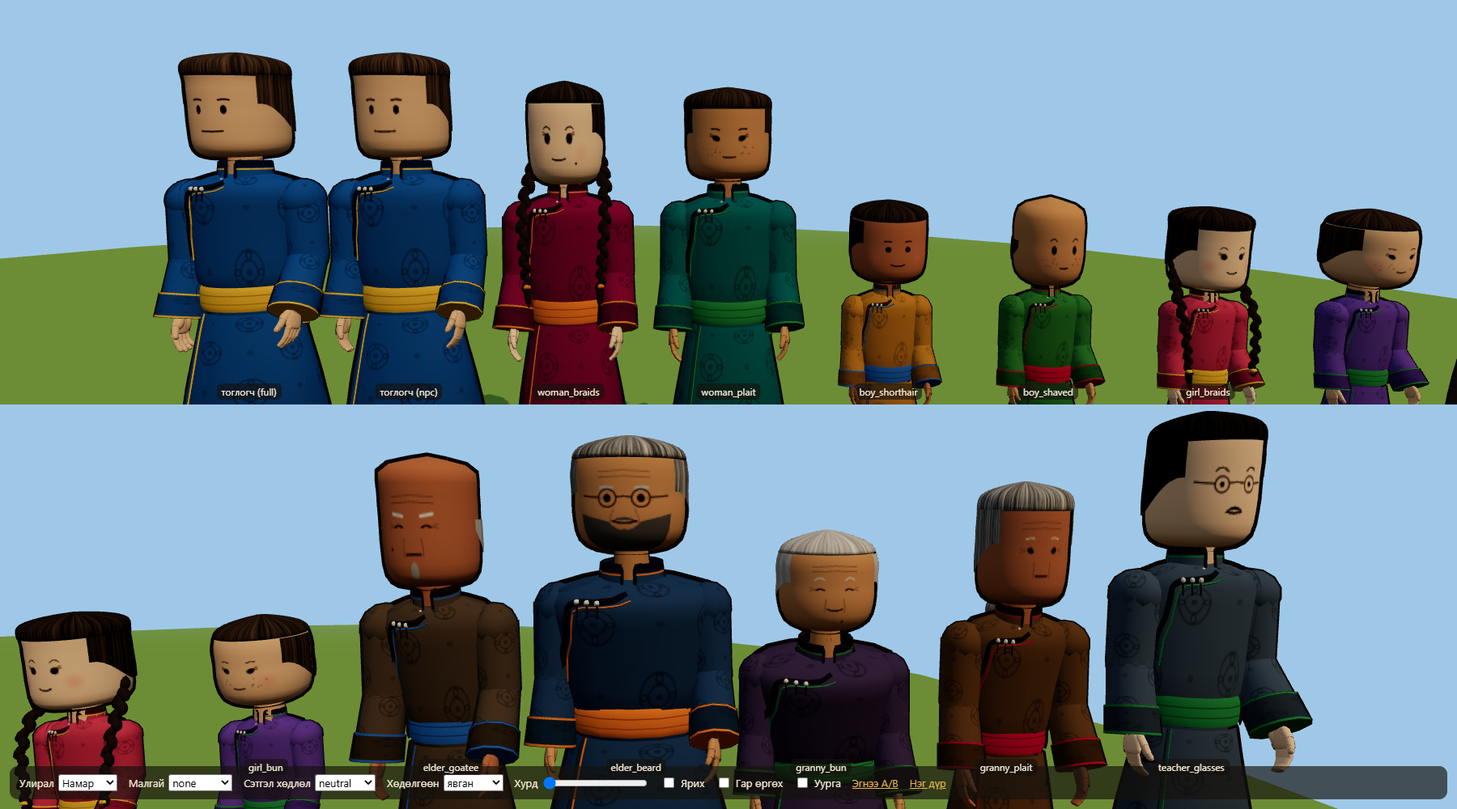
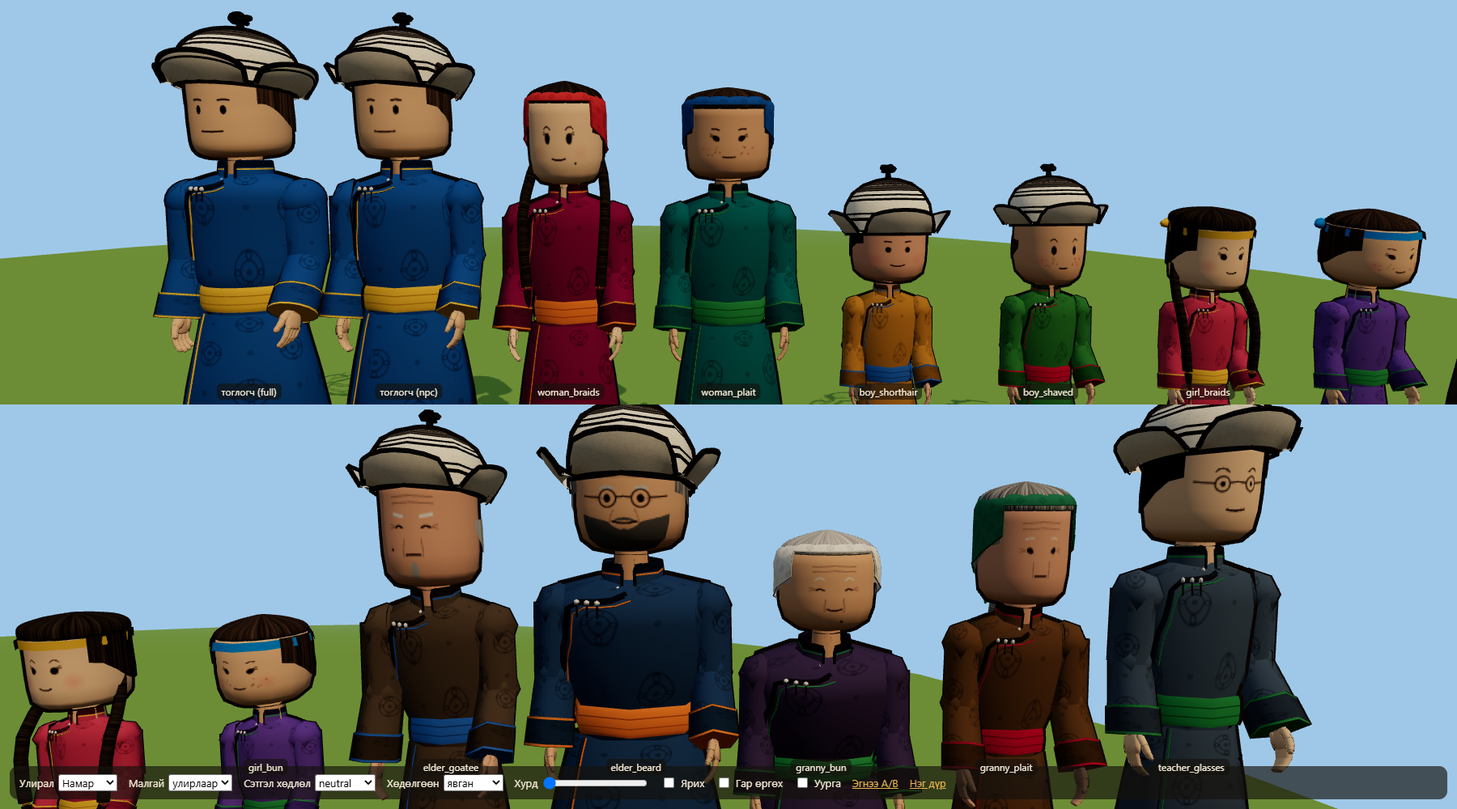
fix(character): V4.5 R4 засвар — арьс, өвлийн олон янз байдал, нимгэн алчуур, багш, npc ≤ 8 000 гурвалжин
- Арьсны 4 палитр тоглогчийн арьсны ойролцоо, ханалт бага (цайвар ↔ наранд борлосон)
- Өвөл: хантааз/үслэг зах/малгайн оройн өнгө preset бүрт өөр; vest.worn — зарим нь хантаазгүй
- Алчуур: толгойн төвөөс бүтээсэн (хүрээ зөв), нимгэн, наалдсан, дух, хацар ил, араар зангидсан
- teacher_glasses: хаалттай тайван ам, ердийн толгой
- npc: lod 0.3, хоолой/loft/гэзэг/тоорцгийн хуваалт бага → нэг дүр 5 480–7 810 гурвалжин (тест)
- tools/shots/r4/ шинэчлэв

diff --git a/game/src/render/character/parts/hats.ts b/game/src/render/character/parts/hats.ts
@@ -37,12 +37,12 @@ function toortsog(spec: CharacterSpec, kit: Kit, hy: number): THREE.Group {
   noOut(kit.lathe([[domeR(0.275) + 0.005, 0.275], [domeR(0.312) + 0.005, 0.312], [domeR(0.338) + 0.005, 0.338], [0, 0.355]], 1, cap(L.ink), 0, hy, 0, hat, { rows: 12 }));   // алхан хээтэй хар орой
   // Сампин: иш + мушгисан зангилаа
   kit.cyl(0.016, 0.024, 0.05, ink, 0, hy + 0.372, 0, hat);
-  const knot = new THREE.Mesh(new THREE.TorusKnotGeometry(0.03, 0.014, 64, 8, 2, 3), ink);
+  const knot = new THREE.Mesh(new THREE.TorusKnotGeometry(0.03, 0.014, kit.q(64, 16), kit.q(8, 4), 2, 3), ink);
   knot.position.y = hy + 0.42; knot.rotation.x = Math.PI / 2; knot.castShadow = true;
   hat.add(knot);
   // Далбаа: орой нь бараг тэгш, үзүүр рүүгээ огцом намсдаг бөөрөнхий дэлбээ; аяга шиг гадагш дэлгэрнэ
   const flap = (center: number, half: number, H: number, flare: number, round: number): void => {
-    const nu = 24, nv = 8, pos: number[] = [], uv: number[] = [], idx: number[] = [], edge: THREE.Vector3[] = [], inner: THREE.Vector3[] = [];
+    const nu = kit.q(24, 8), nv = kit.q(8, 3), pos: number[] = [], uv: number[] = [], idx: number[] = [], edge: THREE.Vector3[] = [], inner: THREE.Vector3[] = [];
     for (let a = 0; a <= nu; a++) {
       const s01 = (a / nu) * 2 - 1, phi = center + s01 * half;
       const f = Math.pow(Math.cos((s01 * Math.PI) / 2), round);          // 0 (үзүүр) … 1 (дунд)
@@ -68,8 +68,8 @@ function toortsog(spec: CharacterSpec, kit: Kit, hy: number): THREE.Group {
     const m = noOut(new THREE.Mesh(geo, feltM2));
     m.position.y = hy; m.castShadow = true;
     hat.add(m);
-    for (const [pts, rad] of [[edge, 0.014], [inner, 0.006]] as const) {      // хар хөвөө + дотор талын нарийн шугам
-      const tube = noOut(new THREE.Mesh(new THREE.TubeGeometry(new THREE.CatmullRomCurve3(pts), kit.q(48, 10), rad, kit.q(6, 4)), ink));
+    for (const [pts, rad] of (kit.detail === 'npc' ? [[edge, 0.014]] : [[edge, 0.014], [inner, 0.006]]) as Array<[THREE.Vector3[], number]>) {      // хар хөвөө + дотор талын нарийн шугам (npc: зөвхөн хөвөө)
+      const tube = noOut(new THREE.Mesh(new THREE.TubeGeometry(new THREE.CatmullRomCurve3(pts), kit.tq(48, 10), rad, kit.tq(6, 3)), ink));
       tube.position.y = hy;
       hat.add(tube);
     }
@@ -115,8 +115,8 @@ function fox(spec: CharacterSpec, kit: Kit, hy: number): THREE.Group {
 }
 
 /**
- * Алчуур (R4, эмэгтэйчүүд): толгойн орой, ар, хажууг бүрхсэн бүрхүүл — нүүр ил; эрүүн доогуур (chin) эсвэл араар (back)
- * зангидсан. thick — өвлийн зузаан алчуур (эсгий). Толгойн хэлбэрийг (headShape) дагана.
+ * Алчуур (R4, эмэгтэйчүүд): толгойд наалдсан нимгэн даавуу — орой, ар, хажуу, духны дээд хэсэг; дух, нүүр ил; араар (back)
+ * эсвэл эрүүн доогуур (chin) зангидсан. thick — өвлийн зузаан алчуур (эсгий). Геометр толгойн төвөөс (бэхэн хүрээ зөв томорно).
  */
 function scarfHat(name: 'scarf' | 'shawl', thick: boolean): HatBuilder {
   return (spec, kit, hy) => {
@@ -124,14 +124,21 @@ function scarfHat(name: 'scarf' | 'shawl', thick: boolean): HatBuilder {
     const R = profileRadius(headProfile(spec.headShape));
     const hat = new THREE.Group();
     hat.name = 'hat:' + name;
-    const cloth = thick ? felt(L.color, true) : silk(L.color, true), trim = smooth(darken(L.color, 0.62));
-    const off = thick ? 0.05 : 0.032, FRONT = 2.45, TOP = 0.262;
-    const low = (d: number): number => (L.knot === 'chin' ? -0.31 : -0.36 + 0.16 * (Math.abs(d) / FRONT) ** 2);
-    const at = (d: number, y: number): THREE.Vector3 => {
-      const r = (y > TOP - 0.004 ? 0 : Math.max(R(y), y < 0 ? 0.185 : 0)) + off * (y > TOP - 0.004 ? 0.4 : 1), phi = Math.PI + d;
-      return new THREE.Vector3(r * Math.sin(phi) * hw, hy + y * hh, r * Math.cos(phi) * hw);
+    const cloth = thick ? felt(L.color, true) : silk(L.color, true), trim = smooth(darken(L.color, thick ? 0.7 : 0.82));
+    // толгойд наалдсан: үсний бүрхүүлээс (≈1.6–2.6 см) бага зэрэг гадна; ар тал руугаа арай зузаан
+    const FRONT = 2.3, TOP = 0.262, BROW = 0.17;
+    const off = (d: number): number => (thick ? 0.045 : 0.03) + 0.008 * Math.max(0, Math.cos(d));
+    // доод ирмэг: ар талд шил хүртэл, урд руугаа чамархай хүртэл өгсөнө (chin — эрүүн доогуур)
+    const low = (d: number): number => {
+      const t = (Math.abs(d) / FRONT) ** 1.5;
+      return L.knot === 'chin' ? -0.3 : -0.2 + t * 0.24;   // ар: шил; урд: чамархай (хацар ил)
     };
-    const NU = kit.q(40, 12), NV = kit.q(16, 6), pos: number[] = [], uv: number[] = [], idx: number[] = [];
+    const at = (d: number, y: number): THREE.Vector3 => {   // толгойн төвөөс (хүрээ толгойн төвөөр томорно)
+      const r = Math.max(R(y), y < 0 ? 0.2 : 0) + off(d), phi = Math.PI + d;
+      return new THREE.Vector3(r * Math.sin(phi) * hw, y * hh, r * Math.cos(phi) * hw);
+    };
+    const NU = kit.q(40, 12), NV = kit.q(14, 6), pos: number[] = [], uv: number[] = [], idx: number[] = [];
+    // ар/хажуугийн бүрхүүл (d ∈ [−FRONT, FRONT]) + духны тууз (урд талын нарийн зурвас — дух ил)
     for (let a = 0; a <= NU; a++) {
       const d = -FRONT + (a / NU) * FRONT * 2, lo = low(d);
       for (let b = 0; b <= NV; b++) {
@@ -143,27 +150,41 @@ function scarfHat(name: 'scarf' | 'shawl', thick: boolean): HatBuilder {
       const p0 = a * (NV + 1) + b, p1 = p0 + NV + 1;
       idx.push(p0, p1, p0 + 1, p1, p1 + 1, p0 + 1);
     }
+    const n0 = pos.length / 3;
+    for (let a = 0; a <= NU; a++) {
+      const d = FRONT + (a / NU) * 2 * (Math.PI - FRONT);   // урд талын шаантаг (FRONT … 2π − FRONT)
+      for (let b = 0; b <= NV; b++) {
+        const t = b / NV, p = at(d, BROW + (TOP - BROW) * t);
+        pos.push(p.x, p.y, p.z); uv.push((a / NU) * 1, t * 0.6);
+      }
+    }
+    for (let a = 0; a < NU; a++) for (let b = 0; b < NV; b++) {
+      const p0 = n0 + a * (NV + 1) + b, p1 = p0 + NV + 1;
+      idx.push(p0, p1, p0 + 1, p1, p1 + 1, p0 + 1);
+    }
     const geo = new THREE.BufferGeometry();
     geo.setAttribute('position', new THREE.Float32BufferAttribute(pos, 3));
     geo.setAttribute('uv', new THREE.Float32BufferAttribute(uv, 2));
     geo.setIndex(idx);
     geo.computeVertexNormals();
     const shell = new THREE.Mesh(geo, cloth);
-    shell.castShadow = true;
+    shell.position.y = hy; shell.castShadow = true;
+    if (!thick) noOut(shell);   // нимгэн даавуу: бэхэн хүрээ нь зузаан дуулга шиг харагдуулна
     hat.add(shell);
-    // Хөвөө: нүүрний хоёр ирмэг, доод ирмэг
-    const rad = thick ? 0.016 : 0.009;
-    for (const sd of [-1, 1]) {
-      const d = sd * FRONT, lo = low(d);
-      kit.tube(Array.from({ length: 9 }, (_, k) => at(d, lo + (TOP - 0.02 - lo) * Math.sin(((k / 8) * Math.PI) / 2))), rad, trim, hat);
-    }
-    kit.tube(Array.from({ length: 21 }, (_, k) => { const d = -FRONT + (k / 20) * FRONT * 2; return at(d, low(d)); }), rad, trim, hat);
+    // Хөвөө: духны ирмэг, хажуугийн ирмэг, доод ирмэг (нарийн)
+    const edge = new THREE.Group();
+    edge.position.y = hy;
+    hat.add(edge);
+    const rad = thick ? 0.012 : 0.006;
+    kit.tube(Array.from({ length: 13 }, (_, k) => at(Math.PI + (k / 12 - 0.5) * 2 * (Math.PI - FRONT), BROW)), rad, trim, edge);
+    for (const sd of [-1, 1]) kit.tube(Array.from({ length: 7 }, (_, k) => at(sd * FRONT, low(sd * FRONT) + (BROW - low(sd * FRONT)) * (k / 6))), rad, trim, edge);
+    kit.tube(Array.from({ length: 21 }, (_, k) => { const d = -FRONT + (k / 20) * FRONT * 2; return at(d, low(d)); }), rad, trim, edge);
     // Зангилаа ба хоёр үзүүр
-    const knot = L.knot === 'chin' ? new THREE.Vector3(0, hy - 0.33 * hh, 0.15 * hw) : new THREE.Vector3(0, hy - 0.2 * hh, -(0.25 + off) * hw);
-    noOut(kit.sball(thick ? 0.05 : 0.04, cloth, knot.x, knot.y, knot.z, hat)).scale.set(1.3, 0.8, 0.9);
+    const knot = L.knot === 'chin' ? new THREE.Vector3(0, -0.33 * hh, 0.15 * hw) : at(0, -0.17);
+    noOut(kit.sball(thick ? 0.045 : 0.032, cloth, knot.x, knot.y, knot.z, edge)).scale.set(1.3, 0.8, 0.7);
     for (const sx of [-1, 1]) {
-      const tail = noOut(kit.lathe([[0.004, -0.17], [0.03, -0.12], [0.028, 0]], 0.35, cloth, knot.x + sx * 0.035, knot.y - 0.01, knot.z + (L.knot === 'chin' ? 0.01 : -0.01), hat, { rows: 6 }));
-      tail.rotation.z = sx * 0.35;
+      const tail = noOut(kit.lathe([[0.004, -0.15], [0.026, -0.1], [0.022, 0]], 0.3, cloth, knot.x + sx * 0.03, knot.y - 0.01, knot.z + (L.knot === 'chin' ? 0.01 : -0.012), edge, { rows: 6 }));
+      tail.rotation.z = sx * 0.3;
     }
     return hat;
   };

diff --git a/game/src/render/character/geom.ts b/game/src/render/character/geom.ts
@@ -46,6 +46,8 @@ export interface Kit {
   readonly detail: Detail;
   /** хуваалтын тоо нарийвчлалаар: max(min, round(n × lod)) */
   q(n: number, min: number): number;
+  /** нарийн хоолой, хүрээний хуваалт: npc-д илүү цөөн (холоос үл ялгагдана) */
+  tq(n: number, min: number): number;
   /** Эргэлтийн бие: ctrl = [[радиус, y], ...] доороос дээш. depthK = зузаан/өргөн (зууван огтлол) */
   lathe(ctrl: readonly Pt[], depthK: number, material: THREE.Material, x: number, y: number, z: number, parent: THREE.Object3D, opt?: LatheOpt): THREE.Mesh;
   cyl(rTop: number, rBot: number, h: number, material: THREE.Material, x: number, y: number, z: number, parent: THREE.Object3D): THREE.Mesh;
@@ -70,6 +72,7 @@ export function makeKit(lod: number, detail: Detail = 'full'): Kit {
     lod,
     detail,
     q,
+    tq: (n, min) => (detail === 'npc' ? Math.max(min, Math.round(n * lod * 0.45)) : q(n, min)),
     lathe(ctrl, depthK, material, x, y, z, parent, opt = {}) {
       const pts = ctrl.length < 3 ? ctrl.map(([r, yy]) => new THREE.Vector2(r, yy)) : profile(ctrl, q(opt.rows ?? 10, 4));
       if (opt.capBottom) pts.unshift(new THREE.Vector2(0, pts[0]!.y));
@@ -102,16 +105,16 @@ export function makeKit(lod: number, detail: Detail = 'full'): Kit {
       place(new THREE.Mesh(new THREE.SphereGeometry(r, r < 0.035 ? q(8, 4) : q(16, 6), r < 0.035 ? q(6, 3) : q(12, 4)), material), x, y, z, parent),
     box: (w, h, d, color, x, y, z, parent) => place(new THREE.Mesh(new THREE.BoxGeometry(w, h, d), flat(color)), x, y, z, parent),
     tube(pts, rad, material, parent, tension = 0.5) {
-      const m = noOut(new THREE.Mesh(new THREE.TubeGeometry(new THREE.CatmullRomCurve3(pts, false, 'catmullrom', tension), q(64, 12), rad, q(6, 4)), material));
+      const m = noOut(new THREE.Mesh(new THREE.TubeGeometry(new THREE.CatmullRomCurve3(pts, false, 'catmullrom', tension), detail === 'npc' ? Math.max(6, Math.round(64 * lod * 0.45)) : q(64, 12), rad, detail === 'npc' ? 3 : q(6, 4)), material));
       parent.add(m);
       return m;
     },
     loft(st0, material, parent, shape = [2, 2], segs0 = 20) {
-      const segs = q(segs0, 8);
+      const segs = detail === 'npc' ? 6 : q(segs0, 8);
       // огтлолуудын хооронд муруйгаар нягтруулна — хошуу, өсгий талтай биш, жигд муруй болно
       const c1 = new THREE.CatmullRomCurve3(st0.map(([z, y, rx]) => new THREE.Vector3(z, y, rx)), false, 'catmullrom', 0.5);
       const c2 = new THREE.CatmullRomCurve3(st0.map(([, , , ry]) => new THREE.Vector3(ry, 0, 0)), false, 'catmullrom', 0.5);
-      const n = (st0.length - 1) * 4;
+      const n = (st0.length - 1) * (detail === 'npc' ? 1 : 4);   // npc: нягтруулалтгүй
       const st: Section[] = Array.from({ length: n + 1 }, (_, k) => {
         const a1 = c1.getPoint(k / n), a2 = c2.getPoint(k / n);
         return [a1.x, a1.y, Math.max(0.002, a1.z), Math.max(0.002, a2.x)];
@@ -150,7 +153,7 @@ export function makeKit(lod: number, detail: Detail = 'full'): Kit {
       if (detail === 'npc') {   // хоолой: зузаан нь бөмбөлгүүдийн дундаж, гадаргуу нь үсний текстур
         const closed = points.length > 2 && points[0]!.distanceTo(points[points.length - 1]!) < r;
         const curve = new THREE.CatmullRomCurve3(closed ? points.slice(0, -1) : points, closed);
-        const m = noOut(new THREE.Mesh(new THREE.TubeGeometry(curve, q(Math.ceil(curve.getLength() / (r * 0.6)), 8), r * 0.95, q(8, 5), closed), material));
+        const m = noOut(new THREE.Mesh(new THREE.TubeGeometry(curve, Math.max(6, Math.round(curve.getLength() / (r * 2.4))), r * 0.95, 4, closed), material));
         m.castShadow = true;
         parent.add(m);
         return m;

diff --git a/game/src/render/character/parts/leg.ts b/game/src/render/character/parts/leg.ts
@@ -44,18 +44,19 @@ export function buildLeg(spec: CharacterSpec, kit: Kit, x: number): { hip: THREE
     const rx = f0[2] + (f1[2] - f0[2]) * t, ry = f0[3] + (f1[3] - f0[3]) * t, yc = f0[1] + (f1[1] - f0[1]) * t;
     return [z, yc - ry * (1 - hk) + 0.002, rx + gr, ry * hk];
   });
-  noOut(kit.loft(panel(0.0035, 0.6), smooth(B.gold), knee, [6, 5]));
-  noOut(kit.loft(panel(0.005, 0.52), smooth(B.shaft), knee, [6, 5]));
+  const full = kit.detail === 'full';   // npc: зулгийн хээтэй дэвсгэр, оюу хөвөө, улны бараан ирмэггүй (гурвалжин)
+  if (full) noOut(kit.loft(panel(0.0035, 0.6), smooth(B.gold), knee, [6, 5]));
+  if (full) noOut(kit.loft(panel(0.005, 0.52), smooth(B.shaft), knee, [6, 5]));
   // Зулаг → оюу хөвөө → цагаан ул: шат шатаар бага зэрэг өргөсөж нягт давхарлана
   const WELT = FOOT.map(([z, y, rx, ry]): Section => [z * 1.012, y - ry - 0.002, rx + 0.004, 0.0045]);
   const SOLE = FOOT.map(([z, y, rx, ry]): Section => [z * 1.024, y - ry - 0.0135, rx + 0.008, 0.008]);
-  noOut(kit.loft(WELT, smooth(B.teal), knee, [6, 6]));
+  if (full) noOut(kit.loft(WELT, smooth(B.teal), knee, [6, 6]));
   noOut(kit.loft(SOLE, smooth(B.sole), knee, [6, 6]));
-  noOut(kit.loft(SOLE.map(([z, y, rx]): Section => [z * 1.002, y - 0.0055, rx + 0.0012, 0.0028]), smooth(B.shaft), knee, [6, 6]));   // улны доод бараан ирмэг
+  if (full) noOut(kit.loft(SOLE.map(([z, y, rx]): Section => [z * 1.002, y - 0.0055, rx + 0.0012, 0.0028]), smooth(B.shaft), knee, [6, 6]));   // улны доод бараан ирмэг
   // Хар хүрээ: огтлолыг жигд зузаатгаж гаргана
   const hull = FOOT.map(([z, y, rx, ry], n): Section => [z + (n < 3 ? -0.008 : n === FOOT.length - 1 ? 0.004 : 0), y - 0.008, rx + 0.012, ry + 0.012]);
-  noOut(kit.loft(hull.slice(5).map((h0, n): Section => (n === 0 ? [h0[0], h0[1], h0[2] - 0.03, h0[3] - 0.02] : h0)), INK, knee, [2, 5]));
+  if (full) noOut(kit.loft(hull.slice(5).map((h0, n): Section => (n === 0 ? [h0[0], h0[1], h0[2] - 0.03, h0[3] - 0.02] : h0)), INK, knee, [2, 5]));
   // Хоншоорын зүйдэл: зулгийн нурууг дагасан оюу хөвөө — үзүүрээс өмнө дуусна
-  kit.tube(FOOT.slice(7, 12).map(([z, y, , ry]) => new THREE.Vector3(0, y + ry - 0.001, z)), 0.0045, smooth(B.teal), knee);
+  if (full) kit.tube(FOOT.slice(7, 12).map(([z, y, , ry]) => new THREE.Vector3(0, y + ry - 0.001, z)), 0.0045, smooth(B.teal), knee);
   return { hip, knee };
 }

diff --git a/game/src/render/character/parts/torso.ts b/game/src/render/character/parts/torso.ts
@@ -70,7 +70,7 @@ function buildBody(spec: CharacterSpec, kit: Kit, g: THREE.Group, name: OutfitBo
       const q = onCollar(sxc * 0.043, -0.036, 0.011);
       if (sxc < 0) noOut(kit.sball(0.012, button, q.x, q.y, q.z, u));
       else {
-        const loop = noOut(new THREE.Mesh(new THREE.TorusGeometry(0.012, 0.0035, 6, 16), edgeM)); // сул унжсан гогцоо
+        const loop = noOut(new THREE.Mesh(new THREE.TorusGeometry(0.012, 0.0035, kit.q(6, 3), kit.q(16, 6)), edgeM)); // сул унжсан гогцоо
         loop.position.set(q.x - 0.004, q.y - 0.006, q.z + 0.002);
         loop.rotation.set(0.25, 0.3, 0);
         u.add(loop);
@@ -99,7 +99,8 @@ function buildBody(spec: CharacterSpec, kit: Kit, g: THREE.Group, name: OutfitBo
   };
   slitLine(-0.8, 0.009, smooth(hc));       // давхцлын зах: өмсөгчийн баруун урд
   slitLine(-0.74, 0.005, sash);
-  if (v.winter) buildVest(spec, kit, u, b, k, skirtH);
+  if (v.winter && spec.vest.worn) buildVest(spec, kit, u, b, k, skirtH);
+  else if (v.winter) winterHem(spec, kit, b, k, skirtH);   // хантаазгүй: зөвхөн хормойн үс
   g.add(b, u);
   return u;
 }
@@ -136,6 +137,11 @@ function buildVest(spec: CharacterSpec, kit: Kit, u: THREE.Group, b: THREE.Group
   kit.fluff(ring(0, 1.725, 0, 1, 'y', 40).map((p) => new THREE.Vector3(p.x * neckR * 0.86, p.y, p.z * neckR * 0.86 * VK)), 0.05, whiteFur, u, 17);
   kit.fluff(ring(0, 1.775, 0.004, 0.158, 'y', 30), 0.055, whiteFur, u, 19);
   noOut(kit.lathe([[(0.338 + PAD) * k + 0.004, 0.06], [(0.336 + PAD) * k + 0.004, 0.072]], VK, sash, 0, 0.9, 0, u, open));   // хормойн алтлаг хөвөө
+  winterHem(spec, kit, b, k, skirtH);
+}
+
+/** Өвлийн дээлийн хормойн зах — цайвар сэвсгэр үс */
+function winterHem(spec: CharacterSpec, kit: Kit, b: THREE.Group, k: number, skirtH: number): void {
   const hr = (phi: number): number => 0.405 * k * foldK(phi, 1);
   kit.fluff(Array.from({ length: 73 }, (_, q) => {
     const phi = (q / 72) * Math.PI * 2;

diff --git a/game/tests/characters.test.ts b/game/tests/characters.test.ts
@@ -278,7 +278,7 @@ describe('Хүн бүр өөр (V4.5 R4 — арьс, толгой, царай, 
       head.geometry.computeBoundingBox();
       return head.geometry.boundingBox!.getSize(new THREE.Vector3());
     };
-    const base = headBox('player'), wide = headBox('elder_beard'), tall = headBox('teacher_glasses');
+    const base = headBox('player'), wide = headBox('elder_beard'), tall = headBox('elder_goatee');
     expect(wide.x / wide.y).toBeGreaterThan(base.x / base.y * 1.1);
     expect(tall.y / tall.x).toBeGreaterThan(base.y / base.x * 1.1);
   });
@@ -297,6 +297,29 @@ describe('Хүн бүр өөр (V4.5 R4 — арьс, толгой, царай, 
       const j = clone();
       mutate(j);
       expect(() => validateCharacters(j)).toThrow(re);
+    }
+  });
+});
+
+describe('npc гурвалжин (V4.5 R4)', () => {
+  beforeAll(loadLab);
+  it('npc нэг дүр ≤ 8 000 гурвалжин, улирал бүрт', () => {
+    const tris = (root: THREE.Object3D): number => {
+      let n = 0;
+      const shown = (o: THREE.Object3D): boolean => { for (let q: THREE.Object3D | null = o; q; q = q.parent) if (!q.visible) return false; return true; };
+      root.traverse((o) => {
+        const m = o as THREE.Mesh;
+        if (!m.isMesh || !shown(m)) return;
+        n += (m.geometry.index ? m.geometry.index.count : m.geometry.attributes.position!.count) / 3 * ((m as THREE.InstancedMesh).count ?? 1);
+      });
+      return n;
+    };
+    for (const name of Object.keys(characters.presets).filter((n) => n.includes('_'))) {
+      const rig = lab.buildCharacter(characterSpec(name), { detail: 'npc' });
+      for (const season of ['summer', 'autumn', 'winter', 'spring'] as const) {
+        lab.dressCharacter(rig, season);
+        expect(tris(rig.root), `${name} ${season}`).toBeLessThanOrEqual(8000);
+      }
     }
   });
 });

diff --git a/game/src/render/character/spec.ts b/game/src/render/character/spec.ts
@@ -71,7 +71,8 @@ export interface CharacterSpec {
   legs: number;
   deel: { color: number; hem: number; button: number; furTrim: number; winterTrim: number; terlegLighten: number };
   sash: { color: number; fold: number };
-  vest: { color: number; lining: number; fur: number };
+  /** worn — өвлийн дээлийн гадуур хантааз өмсөх эсэх (false — зөвхөн зузаан дээл) */
+  vest: { color: number; lining: number; fur: number; worn: boolean };
   boots: BootPalette;
   bodies: Record<OutfitBody, BodyForm>;
   hats: { toortsog: ToortsogLook; fox: FoxHatLook; scarf: ScarfLook; shawl: ScarfLook; ribbon: { color: number } };
@@ -201,7 +202,7 @@ function parseSpec(raw: Obj, path: string, skins: Skins): CharacterSpec {
     legs: color(r.legs, `${path}.legs`),
     deel: { ...colors(deel, `${path}.deel`, deelKeys, ['terlegLighten']), terlegLighten: num(deel.terlegLighten, `${path}.deel.terlegLighten`, 0, 0.6) },
     sash: colors(r.sash, `${path}.sash`, ['color', 'fold']),
-    vest: colors(r.vest, `${path}.vest`, ['color', 'lining', 'fur']),
+    vest: { ...colors(r.vest, `${path}.vest`, ['color', 'lining', 'fur'], ['worn']), worn: bool((r.vest as Obj).worn, `${path}.vest.worn`) },
     boots: colors(r.boots, `${path}.boots`, ['shaft', 'tan', 'sole', 'teal', 'gold', 'pattern']),
     bodies: parsedBodies,
     hats: {

diff --git a/game/src/render/character/lab.ts b/game/src/render/character/lab.ts
@@ -204,7 +204,15 @@ function startLineup(): void {
         return [a, renderer.info.render.calls];
       };
       const solo = calls([placed[0]!]), all = calls([placed[0]!, ...npcs]);
-      out[season] = { player: solo, withNpc: all, addedNoShadow: all[0] - solo[0], added: all[1] - solo[1], npc: npcs.map((p) => p.label.textContent) };
+      // npc нэг дүрийн гурвалжин (сүүдэргүй, газаргүй): preset бүрээр
+      const tris: number[] = [];
+      for (const p of placed.slice(1)) {
+        for (const q of placed) q.rig.root.visible = q === p;
+        renderer.shadowMap.enabled = false; renderer.render(scene, camera);
+        tris.push(renderer.info.render.triangles - 24);
+      }
+      renderer.shadowMap.enabled = true;
+      out[season] = { player: solo, withNpc: all, addedNoShadow: all[0] - solo[0], added: all[1] - solo[1], npcTriangles: { min: Math.min(...tris), max: Math.max(...tris), avg: Math.round(tris.reduce((a, b) => a + b, 0) / tris.length) } };
     }
     for (const p of placed) p.rig.root.visible = true;
     $('out').textContent = JSON.stringify(out);

diff --git a/game/src/render/character/parts/head.ts b/game/src/render/character/parts/head.ts
@@ -83,7 +83,11 @@ function braid(kit: Kit, pts: THREE.Vector3[], r0: number, material: THREE.Mater
   const curve = new THREE.CatmullRomCurve3(pts);
   const n = Math.max(6, Math.round(curve.getLength() / 0.045));
   const down = new THREE.Vector3(0, -1, 0), axisZ = new THREE.Vector3(0, 0, 1);
-  for (let i = 0; i <= n; i++) {
+  if (kit.detail === 'npc') {   // npc: нэг хоолой (холоос сүлжээ ялгагдахгүй, гурвалжин ~10 дахин цөөн)
+    const m = new THREE.Mesh(new THREE.TubeGeometry(curve, kit.tq(24, 6), r0 * 0.85, 5), material);
+    m.castShadow = true;
+    g.add(noOut(m));
+  } else for (let i = 0; i <= n; i++) {
     const t = i / n, p = curve.getPoint(t), side = i % 2 ? 1 : -1, r = r0 * (1 - 0.35 * t);
     const m = noOut(kit.sball(r, material, p.x + side * r * 0.3, p.y, p.z, g));
     m.scale.set(0.9, 1.5, 0.85);
